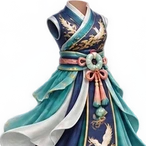
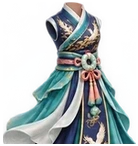
Align heroine visible sprite bounds to the Frost Archer reference

diff --git a/public/game.html b/public/game.html
@@ -538,7 +538,7 @@ async function idbAll(){const db=await idb();return new Promise(res=>{const out=
 async function idbPut(k,v){const db=await idb();return new Promise(res=>{const tx=db.transaction('a','readwrite');tx.objectStore('a').put(v,k);tx.oncomplete=()=>res();tx.onerror=()=>res()})}
 async function idbDel(k){const db=await idb();return new Promise(res=>{const tx=db.transaction('a','readwrite');tx.objectStore('a').delete(k);tx.oncomplete=()=>res();tx.onerror=()=>res()})}
 const BAKED={};
-async function loadAssets(){try{const r=await fetch('assets/manifest.json',{cache:'no-cache'});if(r.ok){const j=await r.json();for(const f of(j.files||[])){const n=f.replace(/\.(png|webp|jpe?g|gif)$/i,'');BAKED[n]='assets/'+f;setAsset(n,'assets/'+f+(n==='bld_fire'?'?v=2041':/^wpn_.*_7$/.test(n)?'?v=2':/^wpn_.*_5$/.test(n)?'?v=2057':/^hero_moonbushi_/.test(n)?'?v=4':/^hero_/.test(n)?'?v=2040':/^(tile|obs)/.test(n)?'?v=2037':/^fx_(boom|meteor)$/.test(n)?'?v=2101':''))}}}catch(e){}
+async function loadAssets(){try{const r=await fetch('assets/manifest.json',{cache:'no-cache'});if(r.ok){const j=await r.json();for(const f of(j.files||[])){const n=f.replace(/\.(png|webp|jpe?g|gif)$/i,'');BAKED[n]='assets/'+f;setAsset(n,'assets/'+f+(n==='bld_fire'?'?v=2041':/^wpn_.*_7$/.test(n)?'?v=2':/^wpn_.*_5$/.test(n)?'?v=2057':/^hero_moonbushi_/.test(n)?'?v=5':/^hero_/.test(n)?'?v=2040':/^(tile|obs)/.test(n)?'?v=2037':/^fx_(boom|meteor)$/.test(n)?'?v=2101':''))}}}catch(e){}
  try{for(const[k,v]of await idbAll()){LOCAL[k]=1;setAsset(k,URL.createObjectURL(v))}}catch(e){}}
 const SHAPE={sprout:'머리에 새싹 잎이 난 동글동글한 몸',slime:'말랑한 젤리 슬라임',mush:'버섯 갓을 쓴 작은 몸',spider:'다리 8개 달린 벌레형',golem:'큼직한 돌덩이 골렘',tall:'키 큰 인간형(로브·갑옷)',bat:'날개를 편 박쥐형',chest:'보물상자(때리면 부서짐)',cactus:'선인장'};
 const HERO_LOOK={archer:'초록 후드와 가죽 조끼의 견습 궁수',farmer:'밀짚모자와 멜빵바지의 농부',mage:'파란 뾰족 모자와 로브의 수습 마법사',miner:'노란 안전모와 헤드랜턴, 갈색 작업복의 광부',monk:'주황 승복과 민머리의 수도승',pirate:'삼각 해적모자와 빨간 두건, 안대의 해적',viking:'뿔 달린 투구와 털망토, 갈색 수염의 바이킹',samurai:'빨간 일본 갑옷과 투구의 사무라이',icewitch:'하늘색 마녀 모자와 얼음 결정 장식 로브의 마녀',dragon:'붉은 용비늘 갑옷과 용머리 투구의 용기사',adv:'얼굴 없는 노란 마네킹 같은 기본 캐릭터, 몸 전체가 노란색',knight:'은색 갑옷, 가슴에 파란 천, 빨간 깃털 달린 투구',rogue:'짙은 보라색 후드와 옷, 어두운 얼굴에 빛나는 노란 눈 두 개'};
@@ -1824,7 +1824,7 @@ function groundStatic(x0,y0,x1,y1){
 function BTILE(){return CHAP===2&&AI('tile2_base')?'tile2_base':AI('tile_base_crisp')?'tile_base_crisp':'tile_base'}
 // 머리 아랫부분이 몸통 목 구멍을 덮도록 영웅마다 머리 높이 자동 보정
 const HERO_HEAD_WIDTH=27;
-const NKC={};function neckAdj(h){if(NKC[h.k]!==undefined)return NKC[h.k];const hi=AI('hero_'+h.k+'_head'),bi=AI('hero_'+h.k+'_body');if(!hi||!bi)return 0;let r=0;
+const NKC={};function neckAdj(h){if(h.k==='moonbushi')h=HERO.find(hero=>hero.k==='frostarcher');if(NKC[h.k]!==undefined)return NKC[h.k];const hi=AI('hero_'+h.k+'_head'),bi=AI('hero_'+h.k+'_body');if(!hi||!bi)return 0;let r=0;
  try{const rows=(im,fr)=>{const c=document.createElement('canvas');c.width=im.width;c.height=im.height;const g=c.getContext('2d');g.drawImage(im,0,0);const d=g.getImageData(0,0,im.width,im.height).data,W=im.width,H=im.height;let t=-1,b=-1;
    for(let y=0;y<H;y++)for(let x=Math.round(W*(.5-fr));x<Math.round(W*(.5+fr));x++)if(d[(y*W+x)*4+3]>140){if(t<0)t=y;b=y;break}return{t,b,W,H}};
   const B=rows(bi,.12),Hd=rows(hi,.2),bodyTop=-19+B.t/B.H*22,hh=HERO_HEAD_WIDTH*hi.height/hi.width,headBot=(Hd.b/Hd.H-.5)*hh;
